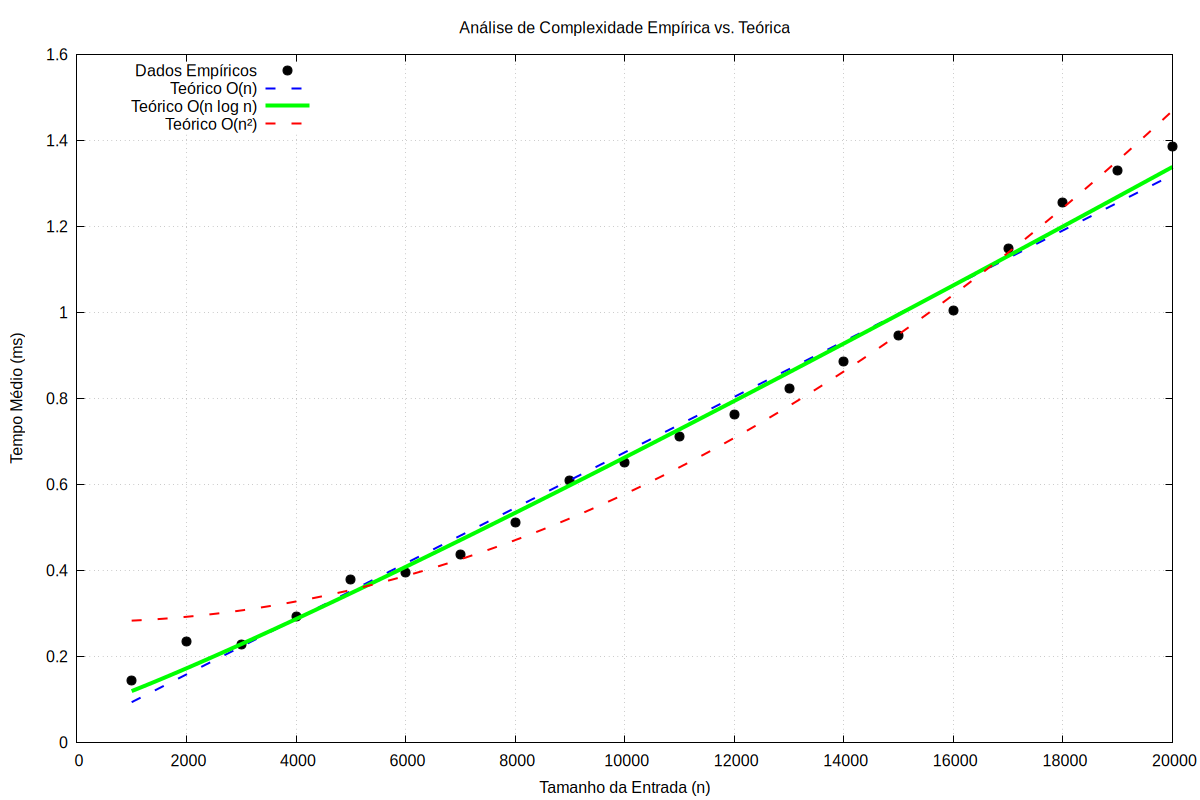
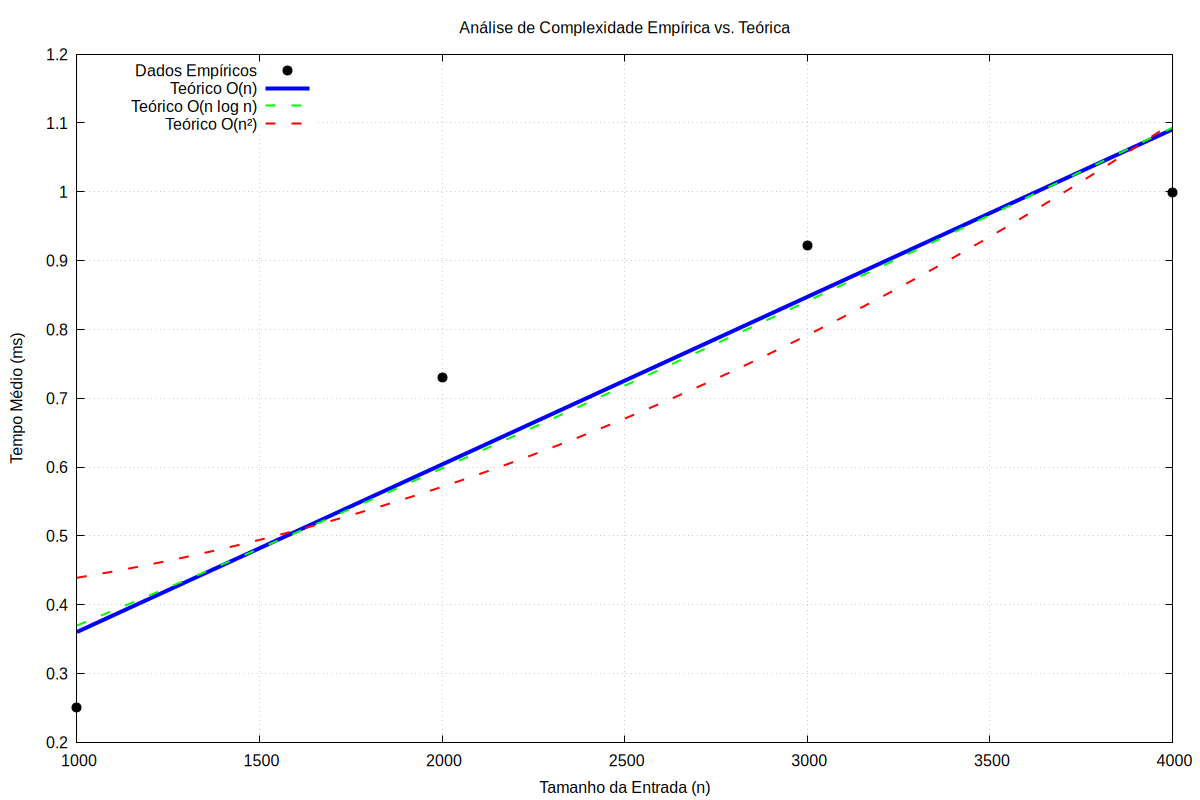
refactor: add algorithm implementations and enhance plotting functionality

diff --git a/src/main.cpp b/src/main.cpp
@@ -2,69 +2,117 @@
 #include "utils.hpp"
 #include "include/function.hpp"
 #include "include/plotter.hpp"
+#include "algorithms.hpp" // Garanta que este header declare todas as funções de algoritmo
+
 #include <iostream>
 #include <string>
 #include <vector>
 #include <algorithm>
 #include <memory>
+#include <limits>
+#include <functional>
 
-int main() {
-    const std::string file_path = "resultados.csv";
-    
-    data_generator dg(20000);
-    
-    std::cout << "=== Iniciando Coleta de Dados ===" << std::endl;
-    dg.run_data_generator([](std::vector<int>& v) {
-        std::sort(v.begin(), v.end());
-    });
-    dg.export_to_csv(file_path);
-    
-    std::cout << "\n=== Analisando Resultados ===" << std::endl;
+struct Algorithm {
+    std::string name;
+    std::function<void(std::vector<int>&)> function;
+};
+
+void analyze_and_plot(const std::string& algorithm_name, const std::string& file_path) {
+    std::cout << "\n=== Analisando Resultados de '" << algorithm_name << "' ===" << std::endl;
     
     std::vector<long long> X_ll;
     std::vector<double> Y;
     Metadata meta;
+
     read_csv(file_path, X_ll, Y, meta);
-    
+
     if (X_ll.empty()) {
-        std::cerr << "Falha ao ler dados do CSV. Encerrando." << std::endl;
-        return 1;
+        std::cerr << "Falha ao ler dados do CSV '" << file_path << "'. Pulando análise." << std::endl;
+        return;
     }
-    
+
     std::cout << "Dados lidos: " << X_ll.size() << " pontos" << std::endl;
     std::cout << "Tamanho mín: " << meta.min_entry << ", máx: " << meta.max_entry << std::endl;
     std::cout << "Tempo mín: " << meta.min_time << " ms, máx: " << meta.max_time << " ms" << std::endl;
-    
-    std::vector<long> X(X_ll.begin(), X_ll.end());
-    std::vector<double> x_cont = linspace(meta.min_entry, meta.max_entry, X.size());
-    
+
+    std::vector<double> x_cont = linspace(meta.min_entry, meta.max_entry, X_ll.size());
+
     std::vector<std::unique_ptr<ComplexityFunction>> functions;
     functions.emplace_back(std::make_unique<Linear>());
     functions.emplace_back(std::make_unique<NLogN>());
     functions.emplace_back(std::make_unique<Quadratic>());
-    
+
     size_t best_fit_index = 0;
     double min_mse = std::numeric_limits<double>::max();
-    
+
     std::cout << "\n--- Análise de Complexidade (MSE) ---" << std::endl;
     for (size_t i = 0; i < functions.size(); ++i) {
         auto& func = functions[i];
         func->set_data(x_cont);
         func->set_mse(Y, meta.max_time);
         double current_mse = func->get_mse();
-        
+
         std::cout << "> " << func->get_name() << ": MSE = " << std::fixed << current_mse << std::endl;
-        
+
         if (current_mse < min_mse) {
             min_mse = current_mse;
             best_fit_index = i;
         }
     }
-    
-    std::cout << "\n>>> Best complexity: " << functions[best_fit_index]->get_name() << '\n';
-    
-    std::cout << "\n=== Gerando Gráfico ===" << std::endl;
-    plot_graph(X_ll, Y, best_fit_index);
+
+    std::cout << "\n>>> Melhor complexidade: " << functions[best_fit_index]->get_name() << '\n';
+
+    std::cout << "\n=== Gerando Gráfico para '" << file_path << "' ===" << std::endl;
+    plot_graph(algorithm_name, X_ll, Y, best_fit_index);
+}
+
+
+int main() {
+    const int DATA_SIZE = 20000;
+
+    std::vector<Algorithm> algorithms = {
+        {
+            "sequential_search",
+            [](std::vector<int>& v) {
+                sequential_search(v, v[v.size() / 2]); // O(n)
+            }
+        },
+        {
+            "binary_search",
+            [](std::vector<int>& v) {
+                std::sort(v.begin(), v.end());
+                binary_search(v, v[v.size() / 2]); // O(log n)
+            }
+        },
+        {
+            "bubble_sort",
+            [](std::vector<int>& v) {
+                bubble_sort(v); // O(n^2)
+            }
+        },
+        {
+            "merge_sort",
+            [](std::vector<int>& v) {
+                merge_sort(v); // O(n log n)
+            }
+        }
+    };
+
+    // O loop principal executa e analisa cada algoritmo da lista
+    for (const auto& algo : algorithms) {
+        std::cout << "\n=========================================" << std::endl;
+        std::cout << "   Executando: " << algo.name << std::endl;
+        std::cout << "=========================================" << std::endl;
+
+        data_generator dg(DATA_SIZE);
+        dg.run_data_generator(algo.function);
+
+        std::string filename = algo.name + ".csv";
+        dg.export_to_csv(filename);
+
+
+        analyze_and_plot(algo.name, filename);
+    }
     
     return 0;
 }

diff --git a/src/plotter.cpp b/src/plotter.cpp
@@ -28,29 +28,27 @@ std::pair<double, double> linear_regression(const std::vector<long long>& x_data
 }
 
 void plot_graph(
+    const std::string& algorithm_name, 
     const std::vector<long long>& x_data, 
     const std::vector<double>& y_data,
     size_t best_fit_index) 
 {
     if (x_data.empty()) return;
 
+    std::string output_filename = "grafico_" + algorithm_name + ".png";
+    std::string plot_title = "Análise de Complexidade para: " + algorithm_name;
+
     Gnuplot gp;
-    gp << "set title 'Análise de Complexidade Empírica vs. Teórica'\n";
+    gp << "set title '" << plot_title << "'\n"; // <-- Título dinâmico
     gp << "set xlabel 'Tamanho da Entrada (n)'\n";
     gp << "set ylabel 'Tempo Médio (ms)'\n";
     gp << "set grid\n";
     gp << "set key left top\n"; 
     gp << "set terminal pngcairo size 1200,800 font 'Arial,12'\n"; 
-    gp << "set output 'grafico_analise.png'\n";
+    gp << "set output '" << output_filename << "'\n"; // <-- Nome de arquivo dinâmico
 
-    
-    // Para O(n)
     auto [a_linear, b_linear] = linear_regression(x_data, y_data, [](double x) { return x; });
-    
-    // Para O(n log n)
-    auto [a_nlogn, b_nlogn] = linear_regression(x_data, y_data, [](double x) { return x * log2(x); });
-    
-    // Para O(n²)
+    auto [a_nlogn, b_nlogn] = linear_regression(x_data, y_data, [](double x) { return x > 0 ? x * log2(x) : 0; });
     auto [a_quad, b_quad] = linear_regression(x_data, y_data, [](double x) { return x * x; });
 
     gp << "f_n(x) = " << a_linear << " * x + " << b_linear << "\n";
@@ -65,23 +63,22 @@ void plot_graph(
 
     for(size_t i = 0; i < func_names.size(); ++i) {
         std::string line_style = "with lines linecolor '" + colors[i] + "'";
-        
         if(i == best_fit_index) {
-            line_style += " linewidth 4 dashtype 1"; // Linha mais grossa e sólida
+            line_style += " linewidth 4 dashtype 1";
         } else {
-            line_style += " linewidth 2 dashtype 2"; // Linha mais fina e tracejada
+            line_style += " linewidth 2 dashtype 2";
         }
-        
         plot_command += ", " + func_names[i] + " " + line_style + " title '" + legend_titles[i] + "'";
     }
     
     gp << plot_command << "\n";
     gp.send1d(std::make_pair(x_data, y_data));
 
-    std::cout << "\n=== Métricas de Ajuste ===" << std::endl;
+    std::cout << "\n=== Métricas de Ajuste para " << algorithm_name << " ===" << std::endl;
     std::cout << "O(n): a=" << a_linear << ", b=" << b_linear << std::endl;
     std::cout << "O(n log n): a=" << a_nlogn << ", b=" << b_nlogn << std::endl;
     std::cout << "O(n²): a=" << a_quad << ", b=" << b_quad << std::endl;
     
-    std::cout << "\nGráfico gerado com sucesso em 'grafico_analise.png'" << std::endl;
+
+    std::cout << "\nGráfico gerado com sucesso em '" << output_filename << "'" << std::endl;
 }

diff --git a/src/algorithms.cpp b/src/algorithms.cpp
@@ -1,0 +1,67 @@
+#include "algorithms.hpp"
+#include <algorithm>
+
+// Sequential Search (O(n))
+int sequential_search(const std::vector<int>& arr, int target) {
+    for (size_t i = 0; i < arr.size(); i++) {
+        if (arr[i] == target) return i;
+    }
+    return -1; // Not found
+}
+
+// Binary Search (O(log n))
+int binary_search(const std::vector<int>& arr, int target) {
+    int left = 0, right = arr.size() - 1;
+    while (left <= right) {
+        int mid = left + (right - left) / 2;
+        if (arr[mid] == target) return mid;
+        else if (arr[mid] < target) left = mid + 1;
+        else right = mid - 1;
+    }
+    return -1; // Not found
+}
+
+// Bubble Sort (O(n^2))
+void bubble_sort(std::vector<int>& arr) {
+    size_t n = arr.size();
+    for (size_t i = 0; i < n - 1; i++) {
+        for (size_t j = 0; j < n - i - 1; j++) {
+            if (arr[j] > arr[j + 1]) {
+                std::swap(arr[j], arr[j + 1]);
+            }
+        }
+    }
+}
+
+// Merge Sort (O(n log n))
+static void merge(std::vector<int>& arr, int left, int mid, int right) {
+    int n1 = mid - left + 1;
+    int n2 = right - mid;
+    std::vector<int> L(n1), R(n2);
+
+    for (int i = 0; i < n1; i++) L[i] = arr[left + i];
+    for (int j = 0; j < n2; j++) R[j] = arr[mid + 1 + j];
+
+    int i = 0, j = 0, k = left;
+    while (i < n1 && j < n2) {
+        if (L[i] <= R[j]) arr[k++] = L[i++];
+        else arr[k++] = R[j++];
+    }
+    while (i < n1) arr[k++] = L[i++];
+    while (j < n2) arr[k++] = R[j++];
+}
+
+static void merge_sort_rec(std::vector<int>& arr, int left, int right) {
+    if (left < right) {
+        int mid = left + (right - left) / 2;
+        merge_sort_rec(arr, left, mid);
+        merge_sort_rec(arr, mid + 1, right);
+        merge(arr, left, mid, right);
+    }
+}
+
+void merge_sort(std::vector<int>& arr) {
+    if (!arr.empty()) {
+        merge_sort_rec(arr, 0, arr.size() - 1);
+    }
+}

diff --git a/src/include/algorithms.hpp b/src/include/algorithms.hpp
@@ -1,0 +1,11 @@
+#ifndef ALGORITHMS_HPP
+#define ALGORITHMS_HPP
+
+#include <vector>
+
+int sequential_search(const std::vector<int>& arr, int target);
+int binary_search(const std::vector<int>& arr, int target);
+void bubble_sort(std::vector<int>& arr);
+void merge_sort(std::vector<int>& arr);
+
+#endif

diff --git a/src/include/plotter.hpp b/src/include/plotter.hpp
@@ -5,6 +5,7 @@
 #include <string>
 
 void plot_graph(
+    const std::string& algorithm_name,
     const std::vector<long long>& x_data, 
     const std::vector<double>& y_data,
     size_t best_fit_index);
